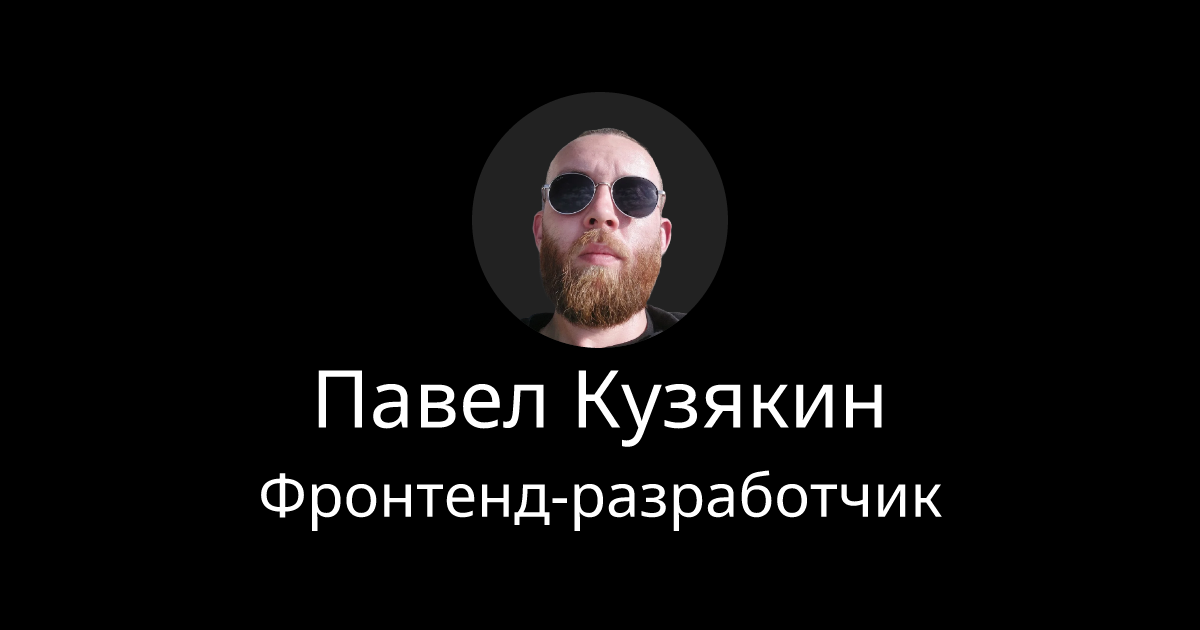
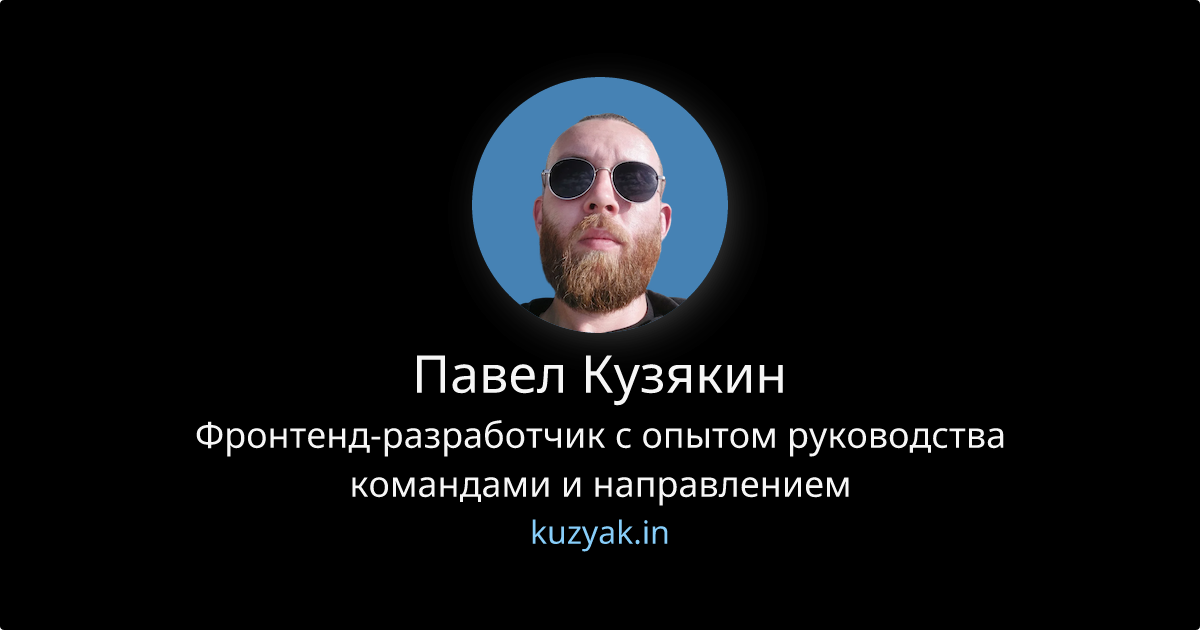
New OG:Image

Changed region(s): [[0.1542, 0.1206, 0.8325, 0.7238], [0.2158, 0.754, 0.8017, 0.8746], [0.9867, 0.9952, 1.0, 1.0]]

diff --git a/src/app/page.tsx b/src/app/page.tsx
@@ -11,10 +11,14 @@ export default function Home() {
       <main className={css.main}>
         <div className={css.description}>
           <p>
-            Я фронтенд-разработчик и тимлид с 8-летним опытом разработки.
-            Люблю создавать сложные веб-сайты и приложения.
+            Я фронтенд-разработчик c опытом руководства командами и направлением. В коммерческой разработке с 2015 года.
           </p>
-          <p>Специализируюсь на фронтенд-разработке и управлении командой.</p>
+          <p>
+            Люблю создавать сложные веб-сайты и приложения, а также нанимать, обучать и развивать людей. Подробности — в
+            {' '}
+            <a href="https://drive.google.com/file/d/1w-mjHmk12TKkxUON1qABRV8dlLA4Yf77/view?usp=sharing">резюме</a>
+            .
+          </p>
         </div>
         <Social />
       </main>

diff --git a/src/app/layout.tsx b/src/app/layout.tsx
@@ -9,10 +9,10 @@ const notoSans = Noto_Sans({ subsets: ['latin'] });
 export const metadata: Metadata = {
   metadataBase: new URL('https://kuzyak.in'),
   title: 'Павел Кузякин',
-  description: 'Фронтенд-разработчик и тимлид',
+  description: 'Фронтенд-разработчик c опытом руководства командами и направлением',
   openGraph: {
     title: 'Павел Кузякин',
-    description: 'Фронтенд-разработчик и тимлид',
+    description: 'Фронтенд-разработчик c опытом руководства командами и направлением',
     url: 'https://kuzyak.in',
     siteName: 'kuzyak.in',
     locale: 'ru_RU',

diff --git a/src/app/components/layout/footer/index.tsx b/src/app/components/layout/footer/index.tsx
@@ -1,3 +1,6 @@
+import { FontAwesomeIcon } from '@fortawesome/react-fontawesome';
+import { faEnvelope } from '@fortawesome/free-regular-svg-icons';
+
 import pjson from '../../../../../package.json';
 
 import css from './footer.module.scss';
@@ -13,6 +16,7 @@ export default function Footer() {
           className={css.emailLink}
           href="mailto:pavel@kuzyak.in"
         >
+          <FontAwesomeIcon icon={faEnvelope} />
           pavel@kuzyak.in
         </a>
       </div>

diff --git a/src/app/components/layout/footer/footer.module.scss b/src/app/components/layout/footer/footer.module.scss
@@ -22,4 +22,16 @@
     font-family: Courier, monospace;
     font-size: .75rem;
   }
+
+  a {
+    display: inline-flex;
+    align-items: center;
+    line-height: 1.5rem;
+
+    svg {
+      width: 16px;
+      height: 16px;
+      margin-right: .5rem;
+    }
+  }
 }

diff --git a/src/app/components/layout/header/header.module.scss b/src/app/components/layout/header/header.module.scss
@@ -8,7 +8,7 @@
   .logo {
     border-radius: 50%;
     margin-bottom: .25rem;
-    background-color: darkorange;
+    background-color: steelblue;
     box-shadow: 8px 8px 45px -15px rgb(153 153 153 / 100%);
   }
 

diff --git a/src/app/styles/page.module.scss b/src/app/styles/page.module.scss
@@ -20,7 +20,7 @@
     margin-bottom: 1.5rem;
 
     p {
-      display: flex;
+      display: inline-block;
       width: 100%;
       margin: 0 0 .75rem;
       font-size: 1.375rem;

diff --git a/README.md b/README.md
@@ -2,6 +2,11 @@
 
 ![Vercel Deploy](https://therealsujitk-vercel-badge.vercel.app/?app=kuzyak-in)
 ![UptimeRobot](https://img.shields.io/uptimerobot/ratio/7/m791492049-6dbfea544e7e89bf7b42eae3)
+![GitHub code size in bytes](https://img.shields.io/github/languages/code-size/iposho/kuzyak.in)
+![GitHub License](https://img.shields.io/github/license/iposho/kuzyak.in)
+![GitHub last commit (by committer)](https://img.shields.io/github/last-commit/iposho/kuzyak.in)
+![GitHub package.json version (branch)](https://img.shields.io/github/package-json/v/iposho/kuzyak.in/main)
+
 
 # kuzyak.in
 
